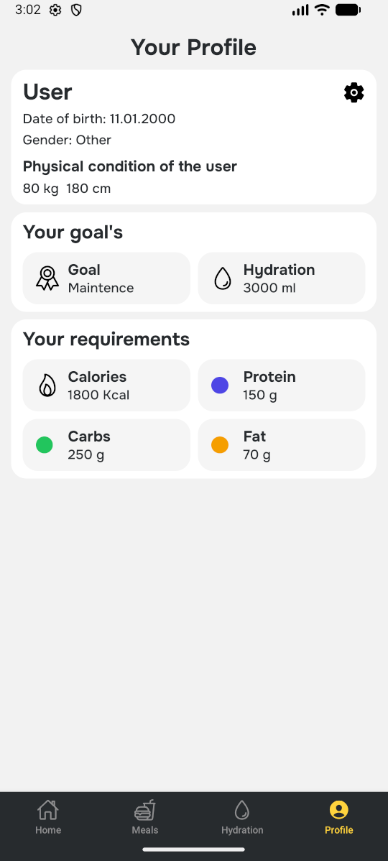
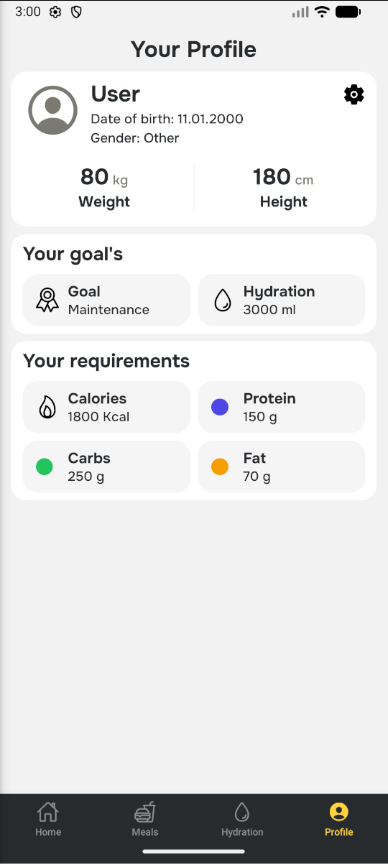
profile-redesign

diff --git a/components/profile/ProfileInformation.tsx b/components/profile/ProfileInformation.tsx
@@ -1,4 +1,5 @@
-import { gapBetweenSection } from '@/consts/spacing/gaps'
+import { grayColor, grayMutedBackground } from '@/consts/colors/colors'
+import { gapBetweenElements } from '@/consts/spacing/gaps'
 import { User } from '@/types/user.type'
 import { formatDate } from '@/utils/formatDate/formatDate'
 import { getGenderName } from '@/utils/getGenderName/getGenderName'
@@ -7,6 +8,7 @@ import React, { memo } from 'react'
 import { StyleSheet, TouchableOpacity, View } from 'react-native'
 import { AppCard } from '../shared/AppCard'
 import { AppText } from '../shared/text/AppText'
+import PhysicalConditionBox from './PhysicalConditionBox'
 
 type PropsType = {
     user: User,
@@ -18,21 +20,22 @@ function ProfileInformation({ user, redirect }: PropsType) {
         <AppCard>
             <View style={styles.containerMain}>
                 <View style={styles.containerUserWrapper}>
-                    <View style={styles.containerUser}>
-                        <AppText variant='xlarge'>{user.username}</AppText>
-                        <AppText >Date of birth: {formatDate(user.birthDate)}</AppText>
-                        <AppText >Gender: {getGenderName(user.gender)}</AppText>
+                    <View style={styles.containerUserDetails}>
+                        <Ionicons name='person-circle-outline' size={64} color={grayColor}></Ionicons>
+                        <View style={styles.containerUser}>
+                            <AppText variant='xlarge'>{user.username}</AppText>
+                            <AppText >Date of birth: {formatDate(user.birthDate)}</AppText>
+                            <AppText >Gender: {getGenderName(user.gender)}</AppText>
+                        </View>
                     </View>
                     <TouchableOpacity style={{ paddingBlock: 4 }} onPress={redirect}>
-                        <Ionicons name="settings" size={24}></Ionicons>
+                        <Ionicons name='settings' size={24}></Ionicons>
                     </TouchableOpacity>
                 </View>
-                <View style={styles.containerDetailsWrapper}>
-                    <AppText variant='medium'>Physical condition of the user</AppText>
-                    <View style={styles.containerDetails}>
-                        <AppText>{user.weight} kg</AppText>
-                        <AppText>{user.height} cm</AppText>
-                    </View>
+                <View style={styles.containerDetails}>
+                    <PhysicalConditionBox value={user.weight} suffix='kg' text='Weight' />
+                    <View style={styles.spacer}></View>
+                    <PhysicalConditionBox value={user.height} suffix='cm' text='Height' />
                 </View>
             </View>
         </AppCard>
@@ -47,7 +50,7 @@ const styles = StyleSheet.create({
         alignItems: 'flex-start',
         justifyContent: 'center',
         width: '100%',
-        gap: gapBetweenSection
+        gap: gapBetweenElements
     },
     containerUserWrapper: {
         flexDirection: 'row',
@@ -57,16 +60,22 @@ const styles = StyleSheet.create({
     },
     containerUser: {
         flexDirection: 'column',
-        gap: 4,
-    },
-    containerDetailsWrapper: {
-        flexDirection: 'column',
-        gap: 4
+        gap: 2,
     },
     containerDetails: {
         flexDirection: 'row',
         alignItems: 'center',
         justifyContent: 'flex-start',
-        gap: gapBetweenSection
+        gap: gapBetweenElements,
+        width: '100%',
     },
+    containerUserDetails: {
+        flexDirection: 'row',
+        gap: gapBetweenElements
+    },
+    spacer: {
+        height: '70%',
+        borderColor: grayMutedBackground,
+        borderWidth: .5
+    }
 });

diff --git a/components/profile/PhysicalConditionBox.tsx b/components/profile/PhysicalConditionBox.tsx
@@ -1,0 +1,45 @@
+import { grayColor } from '@/consts/colors/colors'
+import { gapBetweenElements } from '@/consts/spacing/gaps'
+import React, { memo } from 'react'
+import { StyleSheet, View } from 'react-native'
+import { AppText } from '../shared/text/AppText'
+
+type PropsType = {
+    value: number | string
+    suffix: string
+    text: string
+}
+
+function PhysicalConditionBox({ value, suffix, text }: PropsType) {
+    return (
+        <View style={styles.container}>
+            <View style={styles.wrapper}>
+                <AppText variant='xlarge'>{value}</AppText>
+                <AppText style={styles.textColor}>{suffix}</AppText>
+            </View>
+            <AppText bold variant='medium'>{text}</AppText>
+        </View>
+    )
+}
+
+const styles = StyleSheet.create({
+    container: {
+        flexDirection: 'column',
+        justifyContent: 'center',
+        alignItems: 'center',
+        width: '20%',
+        flex: 1,
+        paddingBlock: gapBetweenElements
+
+    },
+    wrapper: {
+        flexDirection: 'row',
+        gap: 4,
+        alignItems: 'baseline'
+    },
+    textColor: {
+        color: grayColor
+    }
+})
+
+export default memo(PhysicalConditionBox)
